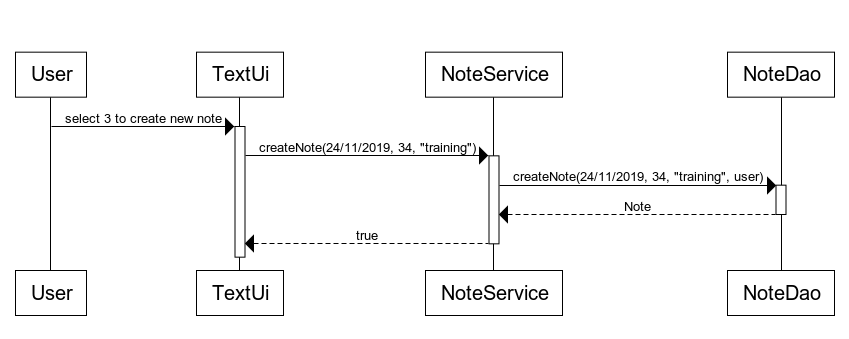
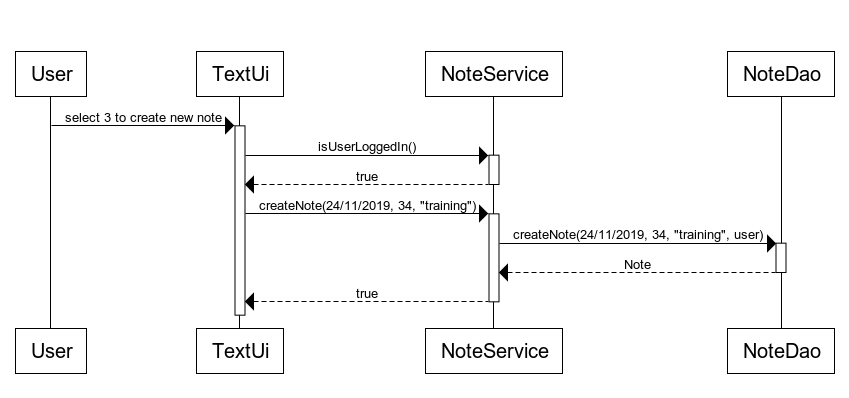
new note sekvenssikaavio päivitetty

diff --git a/dokumentaatio/arkkitehtuuri.md b/dokumentaatio/arkkitehtuuri.md
@@ -89,7 +89,7 @@ NoteService-olio kutsuu UserDao:n metodia findByUsername, antaen sille parametri
 
 ### Uuden päivittäisen muistiinpanon luominen
 
-Kun käyttäjä syöttää käyttöliittymään Create new note -toiminnallisuutta vastaavan komennon 3 ja painaa enter, etenee sovellluksen kontrolli seuraavalla tavalla:
+Kun käyttäjä syöttää käyttöliittymään create new note -toiminnallisuutta vastaavan komennon 3 ja painaa enter, etenee sovellluksen kontrolli seuraavalla tavalla:
 
 ![sequence diagram](https://raw.githubusercontent.com/tsalohei/bike-tracker/master/dokumentaatio/kuvat/sequenceDiagramUserCreatesNewNote.png "Sequence diagram")
 
@@ -98,11 +98,9 @@ Aluksi tekstikäyttöliittymä tarkastaa NoteService:n metodia kutsumalla, että
 NoteService-olio kutsuu NoteDao:n metodia createNote, antaen sille parametriksi kaikki tiedot mitä äsken sai itse käyttöliittymästä, ja sen lisäksi tiedon sisäänkirjautuneesta käyttäjästä. NoteDao luo näitä tietoja vastaavan note:n tietokantaan, ja palauttaa note:n NoteService-oliolle. Jos palautus tapahtuu onnistuneesti, lähettää NoteService paluuarvona sitä kutsuneelle käyttöliittymän metodille arvon “true”. 
 
 
-### Kaikkien pyöräilymuistiinpanojen tarkasteleminen
-
 ### Kokonaiskilometrimäärän tarkasteleminen
 
-### Pyöräilymuistiinpanon poistaminen päivämäärän perusteella
+Kun käyttäjä syöttää käyttöliittymään total kilometer count -toiminnallisuutta vastaavan komennon 4 ja painaa enter, etenee sovelluksen kontrolli seuraavalla tavalla:
 
 ## Sovelluksen rakenteeseen jääneitä heikkouksia
 
